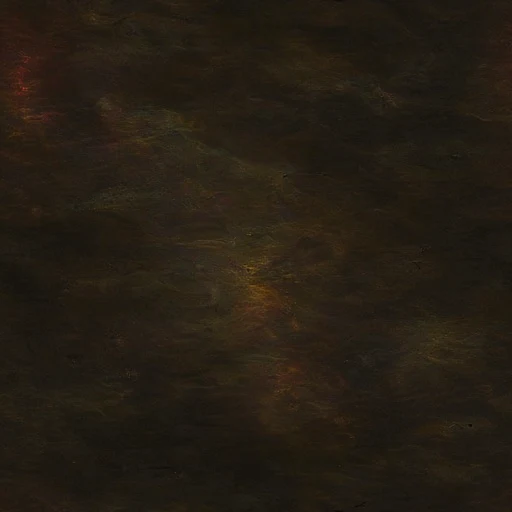
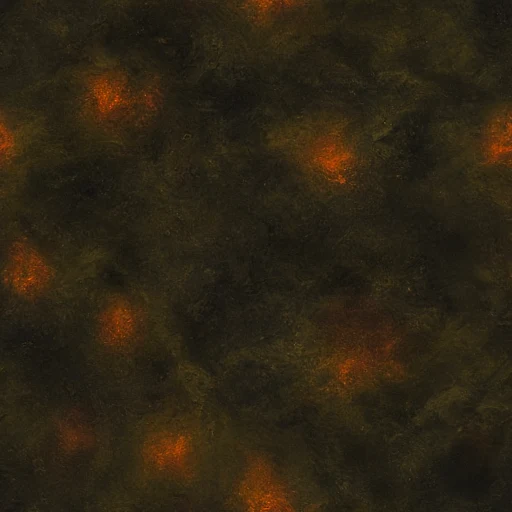
China Lake : g_cl_eau v2 (lac urbain stagnant vu de dessus, reflets néon ambre/rouge, carreau raccordable), stands implants (kiosque tôle rouge, néon) et puces (charrette sous ombrelle moutarde) différenciés, emprises et pivots conservés

diff --git a/tools_chinalake.py b/tools_chinalake.py
@@ -20,8 +20,8 @@ LT = {
  'cl_pilotis': ('gen_cl_pilotis.jpg', [6.0, 6.0], 4.5, 'module de structure sur pilotis 6 m (plateforme, garde-corps, caisses, filets pliés, lanterne)'),
  'cl_cabane': ('gen_cl_cabane2.jpg', [8.0, 6.0], 3.5, 'Les Filets, cabane sur pilotis, toit simple, FILETS 渔网'),
  'cl_ponton': ('gen_cl_ponton.jpg', [5.0, 3.0], 3.5, 'Ponton de Shen, stand du technicien au bord de l eau, ordinateurs, pièces, RÉPARATIONS 修理'),
- 'cl_stand_implants': ('gen_cl_stand_implants2.jpg', [2.5, 1.5], 2.6, 'stand illégal, quai nord : implants piratés, IMPLANTS 植入物'),
- 'cl_stand_puces': ('gen_cl_stand_puces2.jpg', [2.5, 1.5], 2.6, 'stand illégal, quai nord : puces, PUCES 芯片'),
+ 'cl_stand_implants': ('gen_cl_stand_implants3.jpg', [2.5, 1.0], 2.6, 'stand illégal, quai nord : implants piratés, kiosque fermé en tôle rouge sang-de-bœuf, toit plat, néon rouge, vitrine et fauteuil chirurgical, IMPLANTS 植入物'),
+ 'cl_stand_puces': ('gen_cl_stand_puces3.jpg', [2.5, 1.0], 2.6, 'stand illégal, quai nord : puces, charrette à roues sous ombrelle ronde moutarde, bacs de puces, cuivre, moniteur, PUCES 芯片'),
  'cl_stand_armes': ('gen_cl_stand_armes3.jpg', [2.5, 1.5], 2.6, 'stand illégal, quai est : armes, ARMES 武器'),
  'cl_stand_papiers': ('gen_cl_stand_papiers2.jpg', [2.5, 1.5], 2.4, 'stand illégal (guichet), quai sud : faux papiers, PAPIERS 证件'),
  'cl_stand_medocs': ('gen_cl_stand_medocs2.jpg', [2.5, 1.5], 2.6, 'stand illégal, quai ouest : médicaments, MÉDICAMENTS 药品'),
@@ -51,7 +51,7 @@ GRADE = {}
 # (coude : bras en V renversé, apex à l arrière ; passerelle : escalier et poteaux). (pente axe x, pente axe z), sans miroir.
 FORCE = {}
 FITFP = {'cl_maison_the', 'cl_immeuble_fond', 'cl_cabane'}  # proportions x/z mesurées sur le dessin (plus grande dimension = plan) pour que le pivot tombe sur le coin dessiné
-FP = {k: v[1] for k, v in LT.items() if not k.startswith('cl_stand_') and k not in FITFP}  # stands : proportions mesurées, plus grande dimension 2,5 m (les générations sont plus longues que profondes)  # emprises du plan imposées (pivot géométrique au coin avant)
+FP = {k: v[1] for k, v in LT.items() if (not k.startswith('cl_stand_') or k in ('cl_stand_implants', 'cl_stand_puces')) and k not in FITFP}  # stands : proportions mesurées, plus grande dimension 2,5 m (les générations sont plus longues que profondes)  # emprises du plan imposées (pivot géométrique au coin avant)
 STRICT = set()
 def key_green_strict(path):
     a = np.asarray(Image.open(path).convert('RGB')).astype(float); r, g, b = a[..., 0], a[..., 1], a[..., 2]
@@ -84,7 +84,7 @@ def stretch_heights(rgba, f):
     src_y = np.where(Yo >= T, Yo, T - (T - Yo) / f)
     out = cv2.remap(rgba, np.broadcast_to(X[None, :], src_y.shape).astype(np.float32), src_y.astype(np.float32), cv2.INTER_CUBIC, borderMode=cv2.BORDER_CONSTANT, borderValue=0)
     return TI.clean(out, 200)
-PITCH = {'cl_stand_implants': 2.0, 'cl_stand_puces': 2.0, 'cl_stand_armes': 2.0, 'cl_stand_papiers': 1.8, 'cl_stand_medocs': 2.0, 'cl_caisse_armes': 2.2, 'cl_bac_puces': 2.5, 'cl_friture': 2.2}
+PITCH = {'cl_stand_implants': 1.35, 'cl_stand_puces': 1.8, 'cl_stand_armes': 2.0, 'cl_stand_papiers': 1.8, 'cl_stand_medocs': 2.0, 'cl_caisse_armes': 2.2, 'cl_bac_puces': 2.5, 'cl_friture': 2.2}
 TEXT = {'cl_maison_the', 'cl_immeuble_fond', 'cl_immeuble_fond_b', 'cl_cabane', 'cl_ponton', 'cl_stand_implants', 'cl_stand_puces', 'cl_stand_armes', 'cl_stand_papiers', 'cl_stand_medocs'}  # enseignes : jamais de miroir (texte inversé)
 THIN = {'cl_cable_lanternes'}  # câble fin : pas d ouverture morphologique, petits éléments (lanternes) conservés
 def key_green_thin(path):
@@ -181,12 +181,28 @@ if __name__ == '__main__':
 
 
 # ---- sol g_cl_eau (convention des sols : assets/generated/g_*.webp, 512 × 512 RGB, chargé par loadSkins / ground.skin, tileM au choix de Rivet) ----
-# La génération (1024²) est déjà périodique de 512 px (écart moyen 2/255 entre les deux moitiés) : on garde le carreau 64..576, dont les bords
-# se raccordent (écart moyen 3,4/255, de l ordre du bruit entre pixels voisins), éclairci de 20 % (noir pétrole lisible sous la teinte de zone).
-def build_eau(src='gen_cl_eau_src.jpg', off=64, gain=1.2):
-    a = np.asarray(Image.open(G + src).convert('RGB')).astype(float)[off:off + 512, off:off + 512] * gain
-    out = Image.fromarray(np.clip(a, 0, 255).astype('uint8'))
+# v2 (2026-10-28) : eau de lac urbaine stagnante vue de dessus (ni courant ni berges ni stries : l ancienne lisait comme un canal), reflets de néons
+# ambre et rouges en taches diffuses (canon : ni bleu ni cyan ni violet ni rose). La génération (1024²) est quasi périodique de 512 px ; le carreau
+# 256..768 est rendu strictement raccordable par fondu sur 96 px de chaque bord avec la période voisine (a[x] ~ a[x - 512]).
+# Reflets : gain 1,25 puis rehausse des zones claires (néons) et de la saturation chaude.
+def build_eau(src='gen_cl_eau_src2.jpg', off=256, gain=1.25, band=96):
+    a = np.asarray(Image.open(G + src).convert('RGB')).astype(float)
+    X = np.arange(512); w = np.clip((X - (512 - band)) / band, 0, 1)
+    def hblend(rows):  # vers le bord droit, fondu vers a[., off + x - 512] : la colonne 511 rejoint la colonne 0 du carreau voisin
+        r = a[rows]; return r[:, off + X] * (1 - w)[None, :, None] + r[:, off + X - 512 + 512 * (off + X < 512)] * w[None, :, None]
+    t = hblend(off + X) * (1 - w)[:, None, None] + hblend(off + X - 512 + 512 * (off + X < 512)) * w[:, None, None]
+    # ondulations calmes : petit déplacement périodique (fréquences entières sur 512 px, le carreau reste raccordable), reflets brisés en vaguelettes
+    import cv2
+    Y, Xg = np.meshgrid(X, X, indexing='ij'); u = 2 * np.pi / 512
+    dx = 2.2 * np.sin(u * (7 * Y + 3 * Xg)) + 1.3 * np.sin(u * (13 * Y - 5 * Xg) + 1.7)
+    dy = 2.2 * np.sin(u * (6 * Xg - 4 * Y) + 0.6) + 1.3 * np.sin(u * (11 * Xg + 9 * Y) + 2.9)
+    tt = np.tile(t, (3, 3, 1)).astype(np.float32)
+    t = cv2.remap(tt, (Xg + 512 + dx).astype(np.float32), (Y + 512 + dy).astype(np.float32), cv2.INTER_LINEAR).astype(float)
+    L0 = t.mean(2, keepdims=True); t = L0 + (t - L0) * np.clip(0.45 + L0 / 60, 0, 1)  # fond plus noir pétrole, moins boueux
+    t = t * gain; L = t.mean(2, keepdims=True); hi = np.clip((L - 35) / 40, 0, 1)
+    t = t + hi * (t - L) * 0.6 + hi * hi * np.array([18, 6, -4])  # reflets de néons : saturation et chaleur dans les zones claires
+    out = Image.fromarray(np.clip(t, 0, 255).astype('uint8'))
     out.save(HERE + '/assets/generated/g_cl_eau.webp', quality=88)
-    t = np.asarray(out).astype(float); seam = float(np.abs(t[:, 0] - t[:, -1]).mean() + np.abs(t[0] - t[-1]).mean()) / 2
-    inner = float(np.abs(np.diff(t, axis=1)).mean()); print('g_cl_eau', out.size, 'raccord', round(seam, 2), 'voisins', round(inner, 2))
+    q = np.asarray(out).astype(float); seam = float(np.abs(q[:, 0] - q[:, -1]).mean() + np.abs(q[0] - q[-1]).mean()) / 2
+    inner = float(np.abs(np.diff(q, axis=1)).mean()); print('g_cl_eau', out.size, 'raccord', round(seam, 2), 'voisins', round(inner, 2))
     return seam, inner

diff --git a/docs/ASSETS_CATALOGUE.md b/docs/ASSETS_CATALOGUE.md
@@ -313,8 +313,8 @@ Sources : `PLAN_IMPLEMENTATION.md` §3, fiche `CHINA_LAKE.md` §2-§7, planches 
 | `cl_pilotis` | **généré** | `art-gen/gen_cl_pilotis.jpg` | 6 × 6 | 4.5 | 417×361 | [247, 360] | oui | True | 3.64 |
 | `cl_cabane` | **généré** | `art-gen/gen_cl_cabane2.jpg` | 8 × 2 | 3.5 | 386×295 | [330, 294] | oui | False | 3.34 |
 | `cl_ponton` | **généré** | `art-gen/gen_cl_ponton.jpg` | 5 × 3 | 3.5 | 291×248 | [206, 247] | oui | True | 2.74 |
-| `cl_stand_implants` | **généré** | `art-gen/gen_cl_stand_implants2.jpg` | 2.5 × 1 | 2.6 | 131×161 | [103, 160] | oui | True | 2.43 |
-| `cl_stand_puces` | **généré** | `art-gen/gen_cl_stand_puces2.jpg` | 2.5 × 1 | 2.6 | 131×152 | [103, 151] | oui | True | 2.25 |
+| `cl_stand_implants` | **généré** | `art-gen/gen_cl_stand_implants3.jpg` | 2.5 × 1 | 2.6 | 131×169 | [103, 168] | oui | True | 2.61 |
+| `cl_stand_puces` | **généré** | `art-gen/gen_cl_stand_puces3.jpg` | 2.5 × 1 | 2.6 | 131×168 | [103, 167] | oui | True | 2.6 |
 | `cl_stand_armes` | **généré** | `art-gen/gen_cl_stand_armes3.jpg` | 2.5 × 2 | 2.6 | 160×193 | [103, 192] | oui | True | 2.72 |
 | `cl_stand_papiers` | **généré** | `art-gen/gen_cl_stand_papiers2.jpg` | 2.5 × 1 | 2.4 | 131×159 | [103, 158] | oui | True | 2.41 |
 | `cl_stand_medocs` | **généré** | `art-gen/gen_cl_stand_medocs2.jpg` | 2.5 × 1.5 | 2.6 | 145×181 | [103, 180] | oui | True | 2.67 |
@@ -337,6 +337,9 @@ Sources : `PLAN_IMPLEMENTATION.md` §3, fiche `CHINA_LAKE.md` §2-§7, planches 
 | `cl_dechets_a` | **généré** | `art-gen/gen_cl_sheet_dechets_0.jpg` | 2 × 2 | 0.2 | 139×100 | [82, 99] | oui | None | 0.76 |
 | `cl_dechets_b` | **généré** | `art-gen/gen_cl_sheet_dechets_1.jpg` | 2 × 2 | 0.2 | 139×106 | [82, 105] | oui | None | 0.88 |
 | `cl_dechets_c` | **généré** | `art-gen/gen_cl_sheet_dechets_2.jpg` | 2 × 2 | 0.2 | 139×98 | [82, 97] | non | None | 0.72 |
-| `g_cl_eau` (sol) | **généré** | `art-gen/gen_cl_eau_src.jpg` (carreau 512 extrait, ×1,2) | tuile | — | 512×512 | — | — | — | raccord 2,0/255 |
+| `g_cl_eau` (sol) | **généré** | `art-gen/gen_cl_eau_src2.jpg` (v2 2026-10-28 : lac stagnant vu de dessus, reflets néon ambre/rouge, carreau 512 fondu de bord 96 px + ondulations périodiques) | tuile | — | 512×512 | — | — | — | raccord 2,79/255 (voisins 2,44) |
 
 Sol : `assets/generated/g_cl_eau.webp`, même convention que `g_wet` / `g_sv` (512² RGB, `loadSkins`, `ground.skin`), non branché (src/ intouché). Maquette réutilisée : `cl_pieux_b` (bitte d amarrage, `utility-v9.png`) ; le reste de la maquette (sacs de sable, gravats, mobilier de jour) ne correspond pas au marché d eau. Réserves : ballons, pieux, déchets et mah-jong non cisaillés (flottants / ronds / décalques / table en plongée), judge refusé ou non significatif ; emprises des stands 2,5 × 1,5 et de 4 bâtiments différentes du plan (cf. rapport) ; `cl_cabane` arête droite 0,50.
+
+
+China Lake — retouche 2026-10-28 : `cl_stand_implants` (kiosque fermé en tôle rouge sang-de-bœuf, toit plat, néon rouge, vitrine et fauteuil chirurgical) et `cl_stand_puces` (charrette à roues sous ombrelle ronde moutarde, bacs de puces, cuivre) régénérés pour des silhouettes, couleurs et marchandises distinctes ; emprise 2,5 × 1 et pivot x 103 conservés, sans miroir ; `g_cl_eau` régénéré (lac urbain stagnant, plus de lecture de canal).
